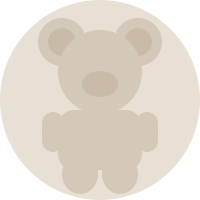
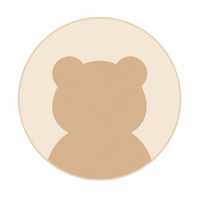
분류 태그 색상 수정, AI 모델 변경, 기본 프로필 교체 등
- 과목별 색상: 중복 방지 로직 + DB 기존 데이터 수정
- AI 모델: claude-3-haiku-20240307로 변경
- 기본 프로필: 사용자 제공 이미지로 교체
- 구독 버튼: '서비스 준비중입니다' 메시지

diff --git a/app/planner/page.js b/app/planner/page.js
@@ -118,8 +118,9 @@ export default function Planner() {
 
   const addSubject = async () => {
     if (!newSubjectName.trim() || !user) return
-    const colors = ['#C9A882', '#8BA88E', '#7B9EBF', '#C4869B', '#B8A06B', '#9B8EC4', '#C47E5A']
-    const color = colors[subjects.length % colors.length]
+    const allColors = ['#C9A882', '#7B9EBF', '#C4869B', '#8BA88E', '#B8A06B', '#9B8EC4', '#C47E5A']
+    const usedColors = new Set(subjects.map(s => s.color))
+    const color = allColors.find(c => !usedColors.has(c)) || allColors[subjects.length % allColors.length]
     const { data } = await supabase.from('subjects').insert({ user_id: user.id, name: newSubjectName.trim(), color, sort_order: subjects.length }).select()
     if (data) setSubjects([...subjects, data[0]])
     setNewSubjectName('')

diff --git a/app/subscribe/page.js b/app/subscribe/page.js
@@ -24,7 +24,7 @@ export default function Subscribe() {
   }, [router])
 
   const handleSubscribe = () => {
-    alert('결제 시스템 준비 중입니다! 곧 토스페이먼츠로 연동될 예정이에요.')
+    alert('서비스 준비중입니다.')
   }
 
   if (loading) return <main style={{ minHeight: '100vh', background: '#FAF7F2', display: 'flex', alignItems: 'center', justifyContent: 'center' }}><p style={{ color: '#9A8A78' }}>불러오는 중...</p></main>

diff --git a/app/api/ai-parse/route.js b/app/api/ai-parse/route.js
@@ -69,7 +69,7 @@ export async function POST(req) {
     }
 
     const message = await client.messages.create({
-      model: 'claude-3-5-sonnet-20241022',
+      model: 'claude-3-haiku-20240307',
       max_tokens: 4000,
       messages
     })
